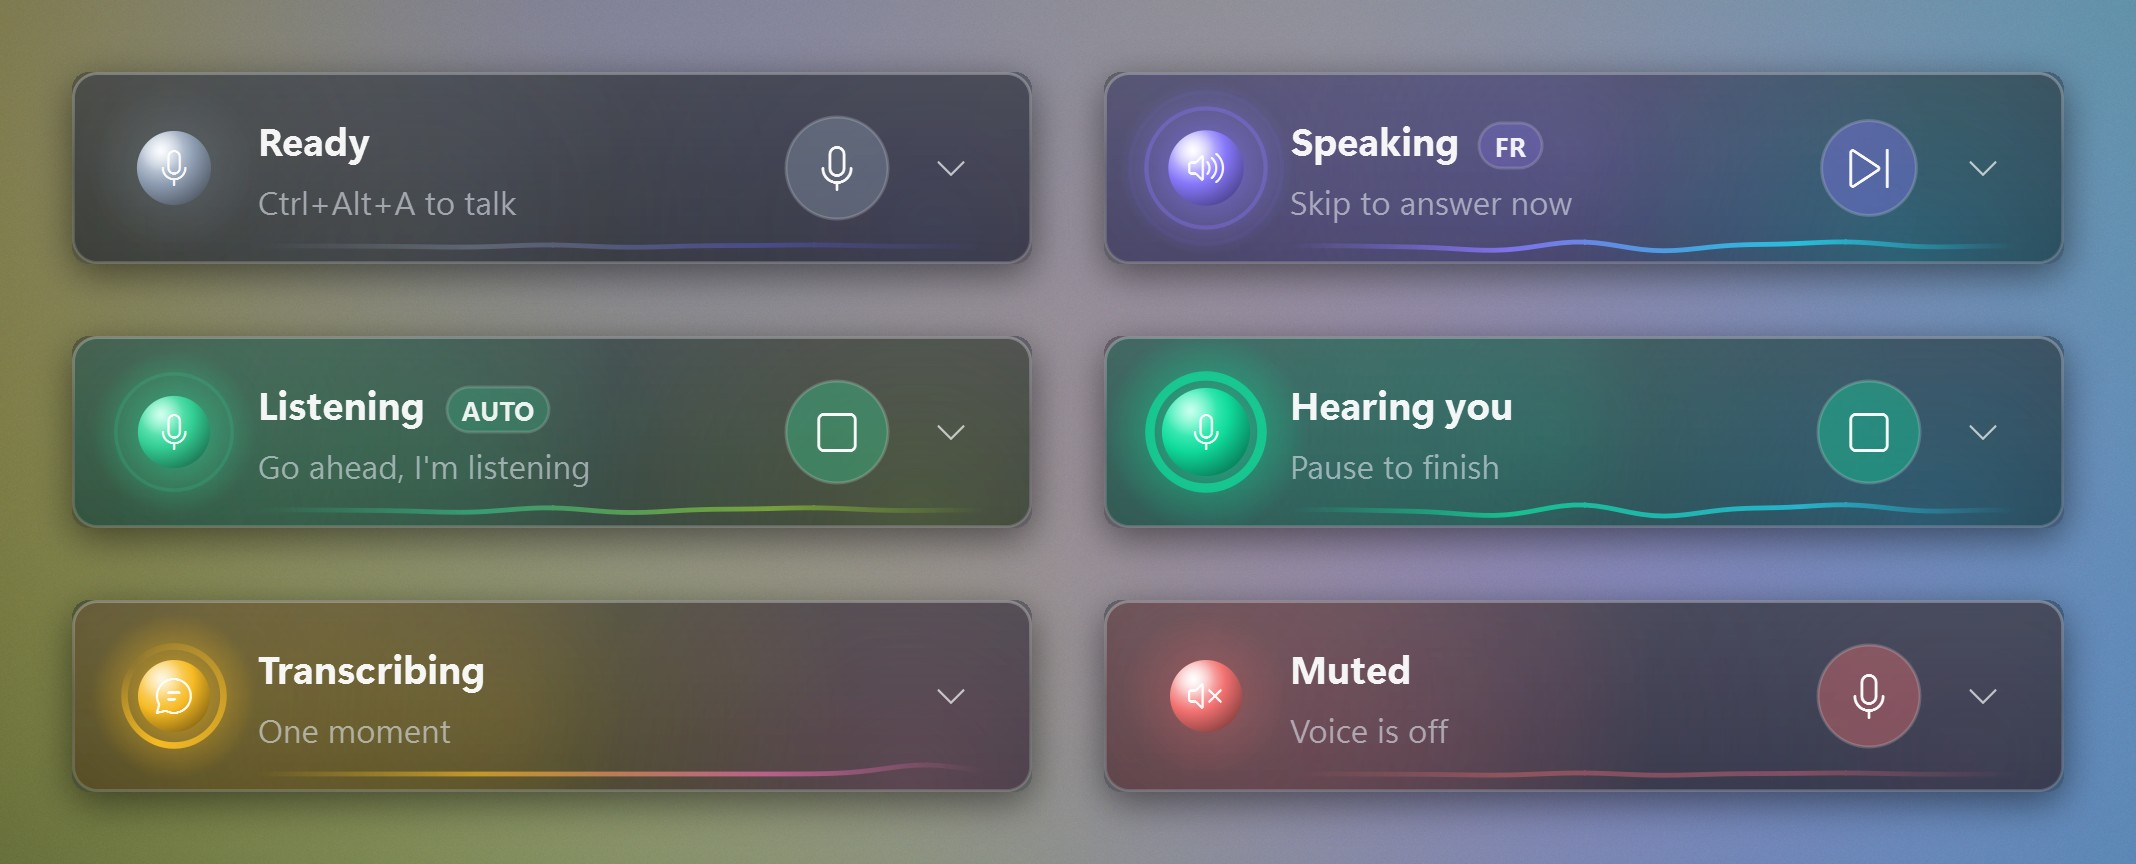
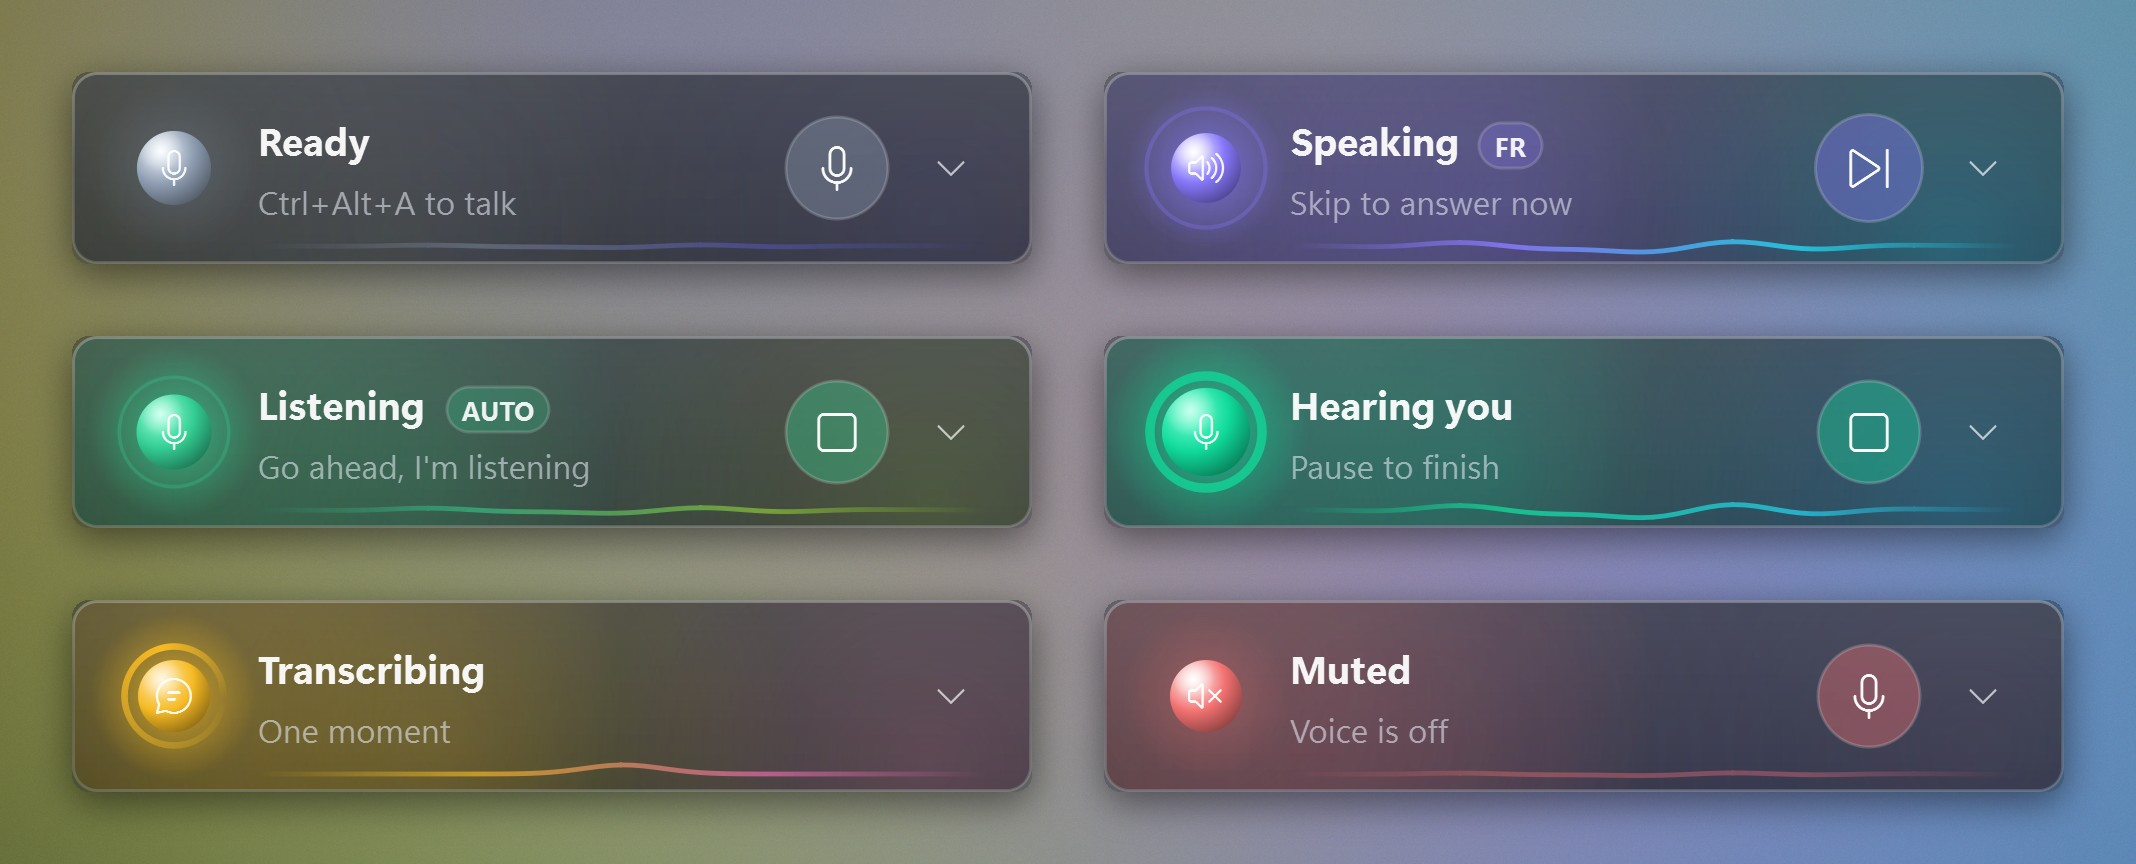
Widget: calmer animations
Roughly halve the speed of the orb pulse, rings, waveform, aurora and
transcribing arc; the speaking state was too intense.

diff --git a/agent_voice/widget.py b/agent_voice/widget.py
@@ -338,7 +338,7 @@ class VoiceWidget(QWidget):
         want_energy = {"speaking": 1.0, "recording": 0.35 + 0.65 * self.level, "waiting": 0.45,
                        "transcribing": 0.6}.get(self.phase, 0.12)
         self.energy = _ease(self.energy, want_energy, 0.08)
-        self.flash = max(0.0, self.flash - 0.035)
+        self.flash = max(0.0, self.flash - 0.022)
         target_idx = self._speed_index()
         self.speed_pos = target_idx if self.speed_pos is None else _ease(self.speed_pos, target_idx, 0.22)
         self.title_t = min(1.0, self.title_t + 0.09)
@@ -468,7 +468,7 @@ class VoiceWidget(QWidget):
     def _paint_aurora(self, p: QPainter, path: QPainterPath) -> None:
         """Two soft colour blobs drifting slowly behind the glass; livelier when something happens."""
         t = time.time() - self.t0
-        speed = 0.25 + 0.9 * self.energy
+        speed = 0.2 + 0.45 * self.energy
         blobs = [
             (self.accent, 90 + 70 * math.sin(t * speed * 0.9), 30 + 22 * math.cos(t * speed * 1.3), 120),
             (self.second, 230 + 60 * math.cos(t * speed * 0.7), 40 + 26 * math.sin(t * speed * 1.1), 110),
@@ -499,11 +499,11 @@ class VoiceWidget(QWidget):
             env = math.sin(math.pi * u) ** 1.5  # fade at both ends
             if self.phase == "transcribing":
                 # A pulse travelling left to right.
-                c = (t * 0.9) % 1.3 - 0.15
+                c = (t * 0.55) % 1.3 - 0.15
                 y = math.exp(-((u - c) ** 2) / 0.006) * amp * 0.9
             else:
-                y = (math.sin(u * 18 + t * 6.0) * 0.55 + math.sin(u * 31 - t * 9.0) * 0.3
-                     + math.sin(u * 7 + t * 2.2) * 0.35) * amp * env * 0.5
+                y = (math.sin(u * 18 + t * 2.8) * 0.55 + math.sin(u * 31 - t * 4.2) * 0.3
+                     + math.sin(u * 7 + t * 1.1) * 0.35) * amp * env * 0.5
             pt = QPointF(x, base - y)
             wave.moveTo(pt) if i == 0 else wave.lineTo(pt)
         grad = QLinearGradient(x0, 0, x1, 0)
@@ -534,9 +534,9 @@ class VoiceWidget(QWidget):
         if phase == "idle":
             scale = 1.0 + 0.03 * math.sin(t * 1.4)
         elif phase == "speaking":
-            scale = 1.0 + 0.07 * math.sin(t * 7.0) * (0.6 + 0.4 * math.sin(t * 2.3))
+            scale = 1.0 + 0.05 * math.sin(t * 3.2) * (0.6 + 0.4 * math.sin(t * 1.1))
         elif phase == "waiting":
-            scale = 1.0 + 0.06 * math.sin(t * 2.6)
+            scale = 1.0 + 0.05 * math.sin(t * 1.8)
         elif phase == "recording":
             scale = 1.0 + 0.32 * self.level
         r = base_r * scale
@@ -556,14 +556,14 @@ class VoiceWidget(QWidget):
         # Phase-specific motion.
         if phase == "speaking":
             for i in range(2):
-                k = ((t * 0.75) + i * 0.5) % 1.0
+                k = ((t * 0.4) + i * 0.5) % 1.0
                 ring = QColor(acc)
                 ring.setAlpha(int(150 * (1 - k)))
                 p.setPen(QPen(ring, 1.4))
                 p.setBrush(Qt.NoBrush)
                 p.drawEllipse(center, r + 3 + k * 11, r + 3 + k * 11)
         elif phase == "waiting":
-            k = (t * 0.5) % 1.0
+            k = (t * 0.35) % 1.0
             ring = QColor(acc)
             ring.setAlpha(int(120 * (1 - k)))
             p.setPen(QPen(ring, 1.2))
@@ -576,7 +576,7 @@ class VoiceWidget(QWidget):
             p.setBrush(Qt.NoBrush)
             p.drawEllipse(center, r + 4, r + 4)
         elif phase == "transcribing":
-            arc = QConicalGradient(center, -t * 360 * 1.1)
+            arc = QConicalGradient(center, -t * 360 * 0.6)
             a0 = QColor(acc)
             a0.setAlpha(255)
             a1 = QColor(acc)
@@ -659,7 +659,7 @@ class VoiceWidget(QWidget):
             rect = rects["primary"]
             hot = self.hover == "primary"
             ht = self.hover_t.get("primary", 0.0)
-            grow = 1.5 * ht + (1.2 * math.sin((time.time() - self.t0) * 4) if self.phase == "speaking" else 0)
+            grow = 1.5 * ht + (1.2 * math.sin((time.time() - self.t0) * 2) if self.phase == "speaking" else 0)
             rect = rect.adjusted(-grow, -grow, grow, grow)
             fill = QColor(self.accent)
             fill.setAlpha(150 if hot else 95)
